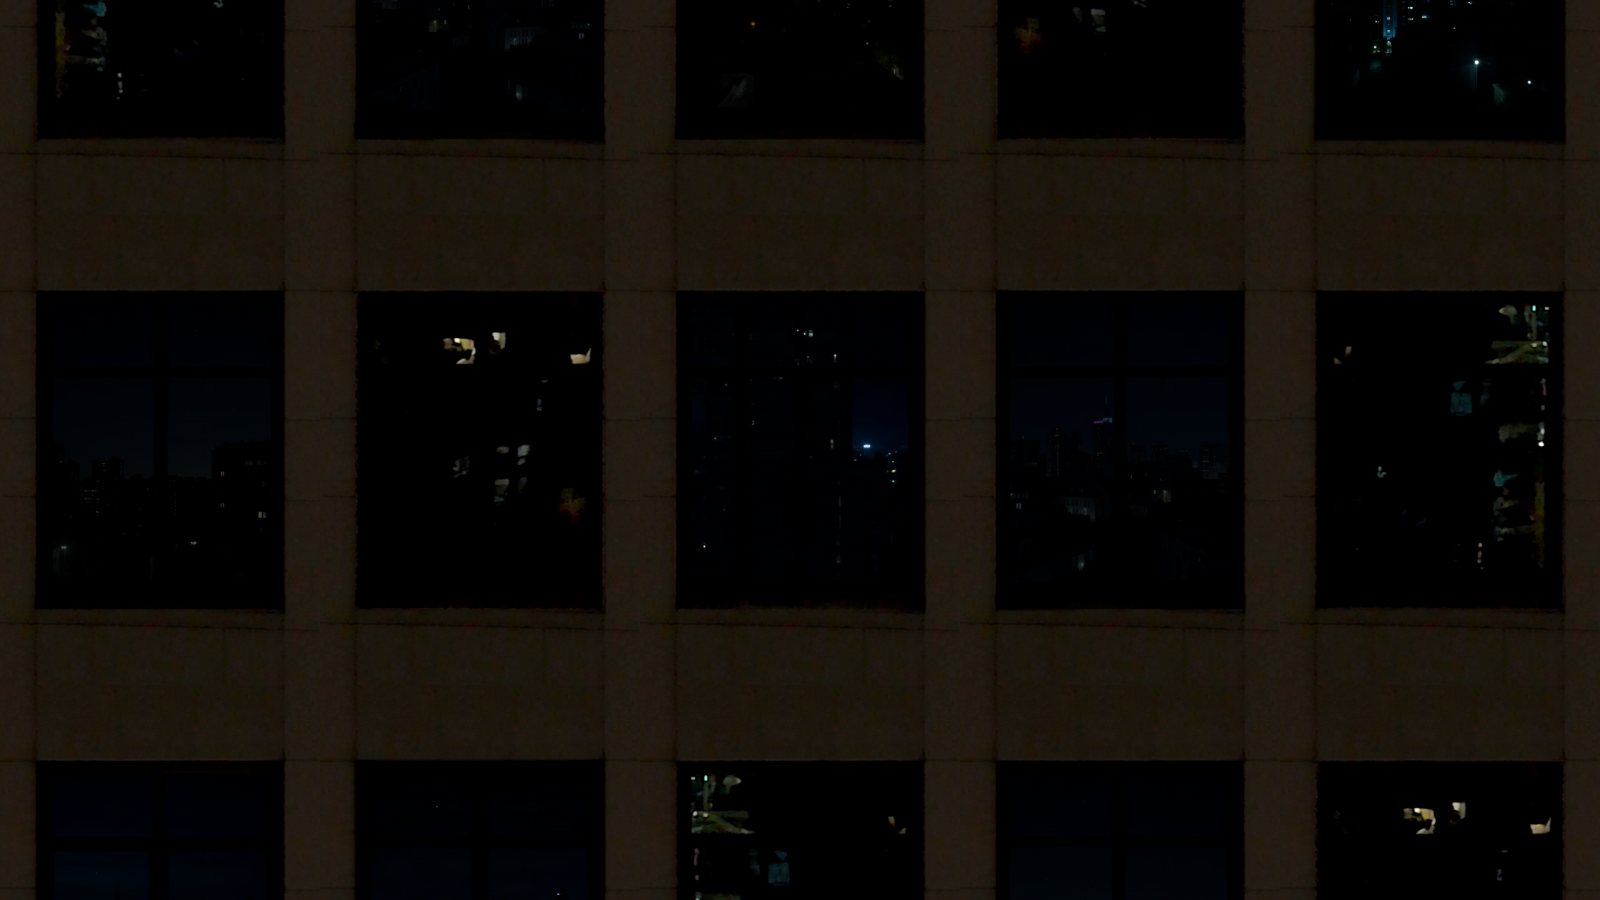
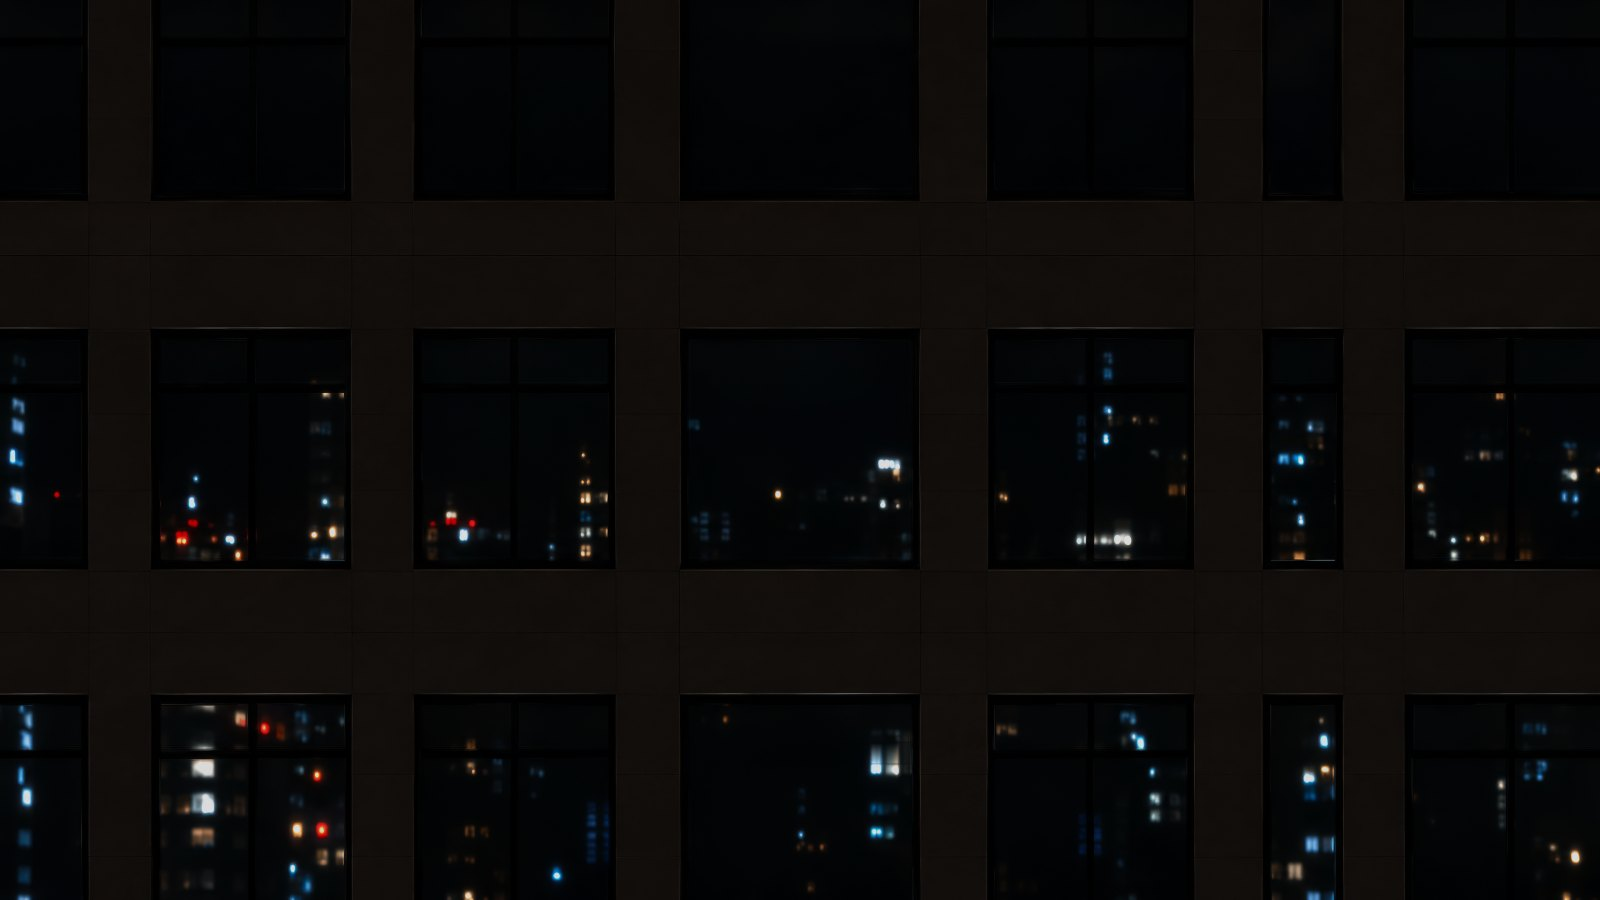
Design v15 intro: approved facade (Topaz ×2 → 4K), new square centre window geometry, single pane (mullion overlay removed)
Claude-Session: https://claude.ai/code/session_0117HZEeKusXN3UNmPD9FEqi

diff --git a/design/js/site.js b/design/js/site.js
@@ -35,22 +35,22 @@
   }
 
   /* ================================================================== 01 HERO v15 — lights off → the CI outline → our window lights up → inside
-     One frontal night facade (assets/v15/fac_*.jpg): real window modules of One Bennett Park cut from the client's drone footage,
-     rectified and laid on one regular grid, every apartment dark (lights switched off with Flux Kontext in Weave + the real dark
-     windows of the lower floor). The CENTRAL window sits exactly at the image centre. Plain DOM layers, one transform per frame:
+     One frontal night facade (assets/v15/fac_*.jpg, approved 2 Nov): dark grey stone, 7 asymmetric columns, every apartment dark,
+     glass with sparse cool city reflections; the centre column has square single-pane windows and the CENTRAL square window sits
+     exactly at the image centre (ChatGPT generation → graded/cleaned → Topaz ×2 in Weave). Plain DOM layers, one transform per frame:
        .cam  = the facade (cover-fit, scale z about the screen centre = the window centre)
-       .win  = the window rect inside .cam: the room photo (its own slower scale = the room is deeper than the facade), the real
-               mullions of that window (fade as we pass the glass), the warm spill on the stone
+       .win  = the window rect inside .cam: the room photo inside the glass (its own slower scale = the room is deeper than the
+               facade; the frame stays the facade's own), the warm spill on the stone
        .mark = the official CI logo mark (crop of logo-white.png), drawn clockwise with a conic mask, centred on the window.
      Timeline ≤ 5 s: fade in 0–.35 · slow drift z 1→1.03 · logo .7–1.5 · logo out 2.3–2.65 · window lights 2.45–3.05 (bloom) ·
-     push 3.05–4.65 (expo, z → 7.8; mullions fly by 3.35–3.9) · UI 4.3 · end 4.75 → the room photo is slide 0 of the hero slider. */
+     push 3.05–4.65 (expo, z → 7.8; the frame flies by) · UI 4.3 · end 4.75 → the room photo is slide 0 of the hero slider. */
   var hero=$('hero'), heroIn=qs('.hero-ui'), heroTitle=$('title'), pre=$('pre'), cnt=$('cnt'), hdr=$('hdr'), skip=$('skip'), veil=$('veil'), dark=$('dark'),
       cur=$('cur'), slidesEl=$('slides'), preview=$('preview');
-  var st15=$('v15'), cam=$('v15cam'), facImg=$('v15fac'), win=$('v15win'), glass=$('v15glass'), roomImg=$('v15room'), mull=$('v15mull'), spill=$('v15spill'), mark=$('v15mark');
-  var FAC = {w:3840, h:2160, win:{x:1622, y:697, w:596, h:764}, bar:19};    /* the central window (outer frame) in fac_4k px; glass inset = bar */
+  var st15=$('v15'), cam=$('v15cam'), facImg=$('v15fac'), win=$('v15win'), glass=$('v15glass'), roomImg=$('v15room'), spill=$('v15spill'), mark=$('v15mark');
+  var FAC = {w:3840, h:2160, win:{x:1632, y:786, w:574, h:580}, inset:{l:19, t:26, r:15, b:20}};   /* the central window (outer frame) in fac_4k px; glass = frame − inset */
   var ROOM = {w:2400, h:1729};
   var Z_END = 7.8, MARK_W = .78;                                             /* logo mark = 78 % of the glass width */
-  var T = {fadeIn:.35, drift:3.05, logoA:.70, logoB:1.50, outA:2.30, outB:2.65, litA:2.45, litB:3.05, push:3.05, pushEnd:4.65, mullA:3.35, mullB:3.90, ui:4.30, end:4.75};
+  var T = {fadeIn:.35, drift:3.05, logoA:.70, logoB:1.50, outA:2.30, outB:2.65, litA:2.45, litB:3.05, push:3.05, pushEnd:4.65, ui:4.30, end:4.75};
   var G = {}, state = {t:0, done:false, skipped:false, phase:'pre'};
   var mx = 0, my = 0, pmx = 0, pmy = 0, scrollZoom = 0;
   var short = false; try { short = sessionStorage.getItem('ci-intro-v15') === '1'; } catch(e){}
@@ -63,7 +63,7 @@
     facImg.src = px > 2600 ? 'assets/v15/fac_4k.jpg' : px > 1700 ? 'assets/v15/fac_2k.jpg' : 'assets/v15/fac_1k.jpg';
     roomImg.src = px > 1500 ? 'assets/v15/room_2k.jpg' : 'assets/v15/room_1k.jpg';
   })();
-  var need = [facImg, roomImg, mull, mark], loaded = 0;
+  var need = [facImg, roomImg, mark], loaded = 0;
   function isOk(im){ return im.complete && im.naturalWidth > 0; }
   need.forEach(function(im){ if (isOk(im)) loaded++; else { im.addEventListener('load', function(){ loaded++; }); im.addEventListener('error', function(){ loaded++; }); } });
 
@@ -75,12 +75,13 @@
     cam.style.width = FAC.w + 'px'; cam.style.height = FAC.h + 'px';
     var W = FAC.win;
     win.style.left = W.x + 'px'; win.style.top = W.y + 'px'; win.style.width = W.w + 'px'; win.style.height = W.h + 'px';
-    var b = FAC.bar; glass.style.left = b + 'px'; glass.style.top = b + 'px'; glass.style.right = b + 'px'; glass.style.bottom = b + 'px';
-    G.gw = (W.w - 2 * b); G.gh = (W.h - 2 * b);                             /* glass, fac px */
+    var b = FAC.inset; glass.style.left = b.l + 'px'; glass.style.top = b.t + 'px'; glass.style.right = b.r + 'px'; glass.style.bottom = b.b + 'px';
+    G.gw = W.w - b.l - b.r; G.gh = W.h - b.t - b.b;                          /* glass, fac px */
     /* the room photo: on-screen scale s(z) = sEnd·(z/Z_END)^.88, sEnd = cover of the viewport ×1.02 → always covers the glass */
     G.sEnd = Math.max(vw / ROOM.w, vh / ROOM.h) * 1.02;
     G.zEnd = Math.max(Z_END, Math.max(vw / (G.gw * c), vh / (G.gh * c)) * 1.06);
-    var mw = G.gw * MARK_W; mark.style.width = mw + 'px'; mark.style.left = (W.x + W.w / 2 - mw / 2) + 'px'; mark.style.top = (W.y + W.h / 2 - mw * 520 / 532 / 2) + 'px';
+    var mw = G.gw * MARK_W, gcx = W.x + b.l + G.gw / 2, gcy = W.y + b.t + G.gh / 2;   /* centred on the glass */
+    mark.style.width = mw + 'px'; mark.style.left = (gcx - mw / 2) + 'px'; mark.style.top = (gcy - mw * 520 / 532 / 2) + 'px';
   }
   function zAt(t){
     if (t < T.push) return 1 + .03 * clamp01(t / T.drift);
@@ -96,11 +97,10 @@
     mark.style.setProperty('--a', (lp * 360).toFixed(1) + 'deg'); mark.style.opacity = (lp > 0 ? .92 * la : 0);
     /* the window */
     var lit = sm15((t - T.litA) / (T.litB - T.litA)), bloom = 1 + .25 * Math.sin(Math.PI * clamp01((t - T.litA) / .8));
-    var passed = sm15((t - T.push) / .9), mf = 1 - sm15((t - T.mullA) / (T.mullB - T.mullA));
+    var passed = sm15((t - T.push) / .9);
     glass.style.opacity = lit; roomImg.style.filter = 'brightness(' + bloom.toFixed(3) + ')';
     var zr = zAt(t), sOn = Math.max(G.sEnd * Math.pow(zr / G.zEnd, .88), Math.max(G.gw / ROOM.w, G.gh / ROOM.h) * c * zr * 1.12), sLoc = sOn / k * (1 + scrollZoom);   /* room scale inside .cam */
     roomImg.style.transform = 'translate(-50%,-50%) scale(' + sLoc + ')';
-    mull.style.opacity = lit * mf;
     spill.style.opacity = lit * bloom * (1 - .6 * passed) * .9;
     if (!state.done && t >= T.ui) uiOn();
     if (!state.done) skip.classList.toggle('on', t > .5 && t < T.ui);

diff --git a/design/src/v15/hero_v15.js b/design/src/v15/hero_v15.js
@@ -1,20 +1,20 @@
   /* ================================================================== 01 HERO v15 — lights off → the CI outline → our window lights up → inside
-     One frontal night facade (assets/v15/fac_*.jpg): real window modules of One Bennett Park cut from the client's drone footage,
-     rectified and laid on one regular grid, every apartment dark (lights switched off with Flux Kontext in Weave + the real dark
-     windows of the lower floor). The CENTRAL window sits exactly at the image centre. Plain DOM layers, one transform per frame:
+     One frontal night facade (assets/v15/fac_*.jpg, approved 2 Nov): dark grey stone, 7 asymmetric columns, every apartment dark,
+     glass with sparse cool city reflections; the centre column has square single-pane windows and the CENTRAL square window sits
+     exactly at the image centre (ChatGPT generation → graded/cleaned → Topaz ×2 in Weave). Plain DOM layers, one transform per frame:
        .cam  = the facade (cover-fit, scale z about the screen centre = the window centre)
-       .win  = the window rect inside .cam: the room photo (its own slower scale = the room is deeper than the facade), the real
-               mullions of that window (fade as we pass the glass), the warm spill on the stone
+       .win  = the window rect inside .cam: the room photo inside the glass (its own slower scale = the room is deeper than the
+               facade; the frame stays the facade's own), the warm spill on the stone
        .mark = the official CI logo mark (crop of logo-white.png), drawn clockwise with a conic mask, centred on the window.
      Timeline ≤ 5 s: fade in 0–.35 · slow drift z 1→1.03 · logo .7–1.5 · logo out 2.3–2.65 · window lights 2.45–3.05 (bloom) ·
-     push 3.05–4.65 (expo, z → 7.8; mullions fly by 3.35–3.9) · UI 4.3 · end 4.75 → the room photo is slide 0 of the hero slider. */
+     push 3.05–4.65 (expo, z → 7.8; the frame flies by) · UI 4.3 · end 4.75 → the room photo is slide 0 of the hero slider. */
   var hero=$('hero'), heroIn=qs('.hero-ui'), heroTitle=$('title'), pre=$('pre'), cnt=$('cnt'), hdr=$('hdr'), skip=$('skip'), veil=$('veil'), dark=$('dark'),
       cur=$('cur'), slidesEl=$('slides'), preview=$('preview');
-  var st15=$('v15'), cam=$('v15cam'), facImg=$('v15fac'), win=$('v15win'), glass=$('v15glass'), roomImg=$('v15room'), mull=$('v15mull'), spill=$('v15spill'), mark=$('v15mark');
-  var FAC = {w:3840, h:2160, win:{x:1622, y:697, w:596, h:764}, bar:19};    /* the central window (outer frame) in fac_4k px; glass inset = bar */
+  var st15=$('v15'), cam=$('v15cam'), facImg=$('v15fac'), win=$('v15win'), glass=$('v15glass'), roomImg=$('v15room'), spill=$('v15spill'), mark=$('v15mark');
+  var FAC = {w:3840, h:2160, win:{x:1632, y:786, w:574, h:580}, inset:{l:19, t:26, r:15, b:20}};   /* the central window (outer frame) in fac_4k px; glass = frame − inset */
   var ROOM = {w:2400, h:1729};
   var Z_END = 7.8, MARK_W = .78;                                             /* logo mark = 78 % of the glass width */
-  var T = {fadeIn:.35, drift:3.05, logoA:.70, logoB:1.50, outA:2.30, outB:2.65, litA:2.45, litB:3.05, push:3.05, pushEnd:4.65, mullA:3.35, mullB:3.90, ui:4.30, end:4.75};
+  var T = {fadeIn:.35, drift:3.05, logoA:.70, logoB:1.50, outA:2.30, outB:2.65, litA:2.45, litB:3.05, push:3.05, pushEnd:4.65, ui:4.30, end:4.75};
   var G = {}, state = {t:0, done:false, skipped:false, phase:'pre'};
   var mx = 0, my = 0, pmx = 0, pmy = 0, scrollZoom = 0;
   var short = false; try { short = sessionStorage.getItem('ci-intro-v15') === '1'; } catch(e){}
@@ -27,7 +27,7 @@
     facImg.src = px > 2600 ? 'assets/v15/fac_4k.jpg' : px > 1700 ? 'assets/v15/fac_2k.jpg' : 'assets/v15/fac_1k.jpg';
     roomImg.src = px > 1500 ? 'assets/v15/room_2k.jpg' : 'assets/v15/room_1k.jpg';
   })();
-  var need = [facImg, roomImg, mull, mark], loaded = 0;
+  var need = [facImg, roomImg, mark], loaded = 0;
   function isOk(im){ return im.complete && im.naturalWidth > 0; }
   need.forEach(function(im){ if (isOk(im)) loaded++; else { im.addEventListener('load', function(){ loaded++; }); im.addEventListener('error', function(){ loaded++; }); } });
 
@@ -39,12 +39,13 @@
     cam.style.width = FAC.w + 'px'; cam.style.height = FAC.h + 'px';
     var W = FAC.win;
     win.style.left = W.x + 'px'; win.style.top = W.y + 'px'; win.style.width = W.w + 'px'; win.style.height = W.h + 'px';
-    var b = FAC.bar; glass.style.left = b + 'px'; glass.style.top = b + 'px'; glass.style.right = b + 'px'; glass.style.bottom = b + 'px';
-    G.gw = (W.w - 2 * b); G.gh = (W.h - 2 * b);                             /* glass, fac px */
+    var b = FAC.inset; glass.style.left = b.l + 'px'; glass.style.top = b.t + 'px'; glass.style.right = b.r + 'px'; glass.style.bottom = b.b + 'px';
+    G.gw = W.w - b.l - b.r; G.gh = W.h - b.t - b.b;                          /* glass, fac px */
     /* the room photo: on-screen scale s(z) = sEnd·(z/Z_END)^.88, sEnd = cover of the viewport ×1.02 → always covers the glass */
     G.sEnd = Math.max(vw / ROOM.w, vh / ROOM.h) * 1.02;
     G.zEnd = Math.max(Z_END, Math.max(vw / (G.gw * c), vh / (G.gh * c)) * 1.06);
-    var mw = G.gw * MARK_W; mark.style.width = mw + 'px'; mark.style.left = (W.x + W.w / 2 - mw / 2) + 'px'; mark.style.top = (W.y + W.h / 2 - mw * 520 / 532 / 2) + 'px';
+    var mw = G.gw * MARK_W, gcx = W.x + b.l + G.gw / 2, gcy = W.y + b.t + G.gh / 2;   /* centred on the glass */
+    mark.style.width = mw + 'px'; mark.style.left = (gcx - mw / 2) + 'px'; mark.style.top = (gcy - mw * 520 / 532 / 2) + 'px';
   }
   function zAt(t){
     if (t < T.push) return 1 + .03 * clamp01(t / T.drift);
@@ -60,11 +61,10 @@
     mark.style.setProperty('--a', (lp * 360).toFixed(1) + 'deg'); mark.style.opacity = (lp > 0 ? .92 * la : 0);
     /* the window */
     var lit = sm15((t - T.litA) / (T.litB - T.litA)), bloom = 1 + .25 * Math.sin(Math.PI * clamp01((t - T.litA) / .8));
-    var passed = sm15((t - T.push) / .9), mf = 1 - sm15((t - T.mullA) / (T.mullB - T.mullA));
+    var passed = sm15((t - T.push) / .9);
     glass.style.opacity = lit; roomImg.style.filter = 'brightness(' + bloom.toFixed(3) + ')';
     var zr = zAt(t), sOn = Math.max(G.sEnd * Math.pow(zr / G.zEnd, .88), Math.max(G.gw / ROOM.w, G.gh / ROOM.h) * c * zr * 1.12), sLoc = sOn / k * (1 + scrollZoom);   /* room scale inside .cam */
     roomImg.style.transform = 'translate(-50%,-50%) scale(' + sLoc + ')';
-    mull.style.opacity = lit * mf;
     spill.style.opacity = lit * bloom * (1 - .6 * passed) * .9;
     if (!state.done && t >= T.ui) uiOn();
     if (!state.done) skip.classList.toggle('on', t > .5 && t < T.ui);

diff --git a/design/css/site.css b/design/css/site.css
@@ -1059,7 +1059,6 @@ html,body{background:#0B0D11}
 .hero .v15 .win{position:absolute;overflow:visible}
 .hero .v15 .glass{position:absolute;overflow:hidden;opacity:0;background:#0b0907}
 .hero .v15 .glass img{position:absolute;left:50%;top:50%;width:2400px;height:auto;max-width:none;transform-origin:50% 50%;will-change:transform}
-.hero .v15 .mull{position:absolute;inset:0;width:100%;height:100%;opacity:0;pointer-events:none}
 .hero .v15 .spill{position:absolute;inset:-18%;opacity:0;pointer-events:none;mix-blend-mode:screen;
   background:radial-gradient(closest-side,rgba(255,176,96,.55),rgba(255,150,70,.18) 55%,rgba(255,140,60,0) 100%)}
 .hero .v15 .mark{position:absolute;opacity:0;pointer-events:none;--a:0deg;

diff --git a/design/src/v15/v15.css b/design/src/v15/v15.css
@@ -5,7 +5,6 @@
 .hero .v15 .win{position:absolute;overflow:visible}
 .hero .v15 .glass{position:absolute;overflow:hidden;opacity:0;background:#0b0907}
 .hero .v15 .glass img{position:absolute;left:50%;top:50%;width:2400px;height:auto;max-width:none;transform-origin:50% 50%;will-change:transform}
-.hero .v15 .mull{position:absolute;inset:0;width:100%;height:100%;opacity:0;pointer-events:none}
 .hero .v15 .spill{position:absolute;inset:-18%;opacity:0;pointer-events:none;mix-blend-mode:screen;
   background:radial-gradient(closest-side,rgba(255,176,96,.55),rgba(255,150,70,.18) 55%,rgba(255,140,60,0) 100%)}
 .hero .v15 .mark{position:absolute;opacity:0;pointer-events:none;--a:0deg;

diff --git a/design/index.html b/design/index.html
@@ -40,7 +40,6 @@
       <div class="win" id="v15win">
         <div class="spill" id="v15spill"></div>
         <div class="glass" id="v15glass"><img id="v15room" alt="" decoding="async"></div>
-        <img class="mull" id="v15mull" src="assets/v15/mull.png" alt="">
       </div>
       <img class="mark" id="v15mark" src="assets/v15/logo_mark.png" alt="">
     </div>
